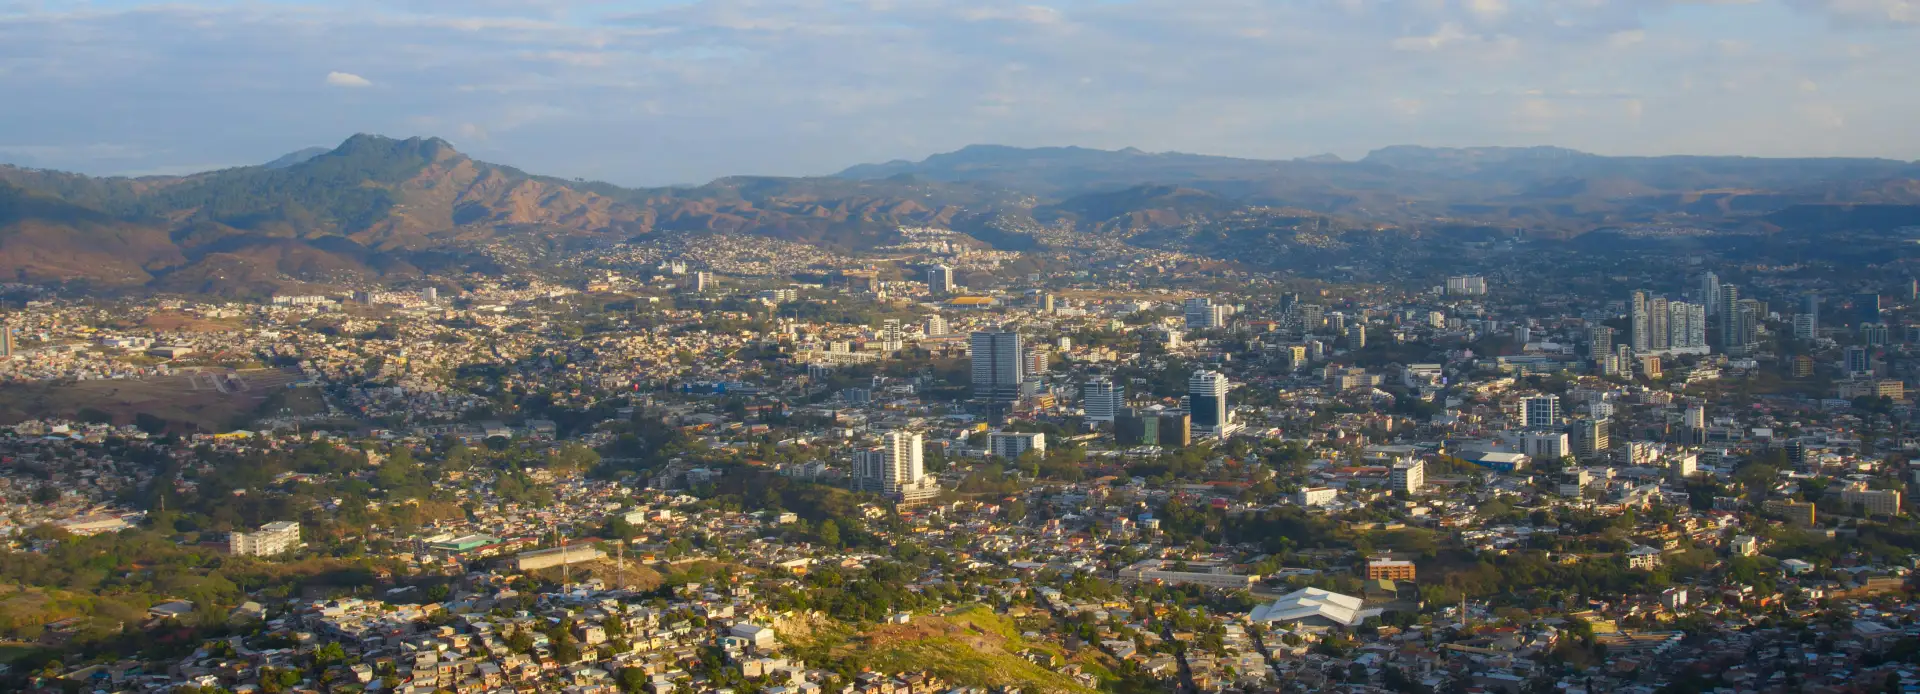
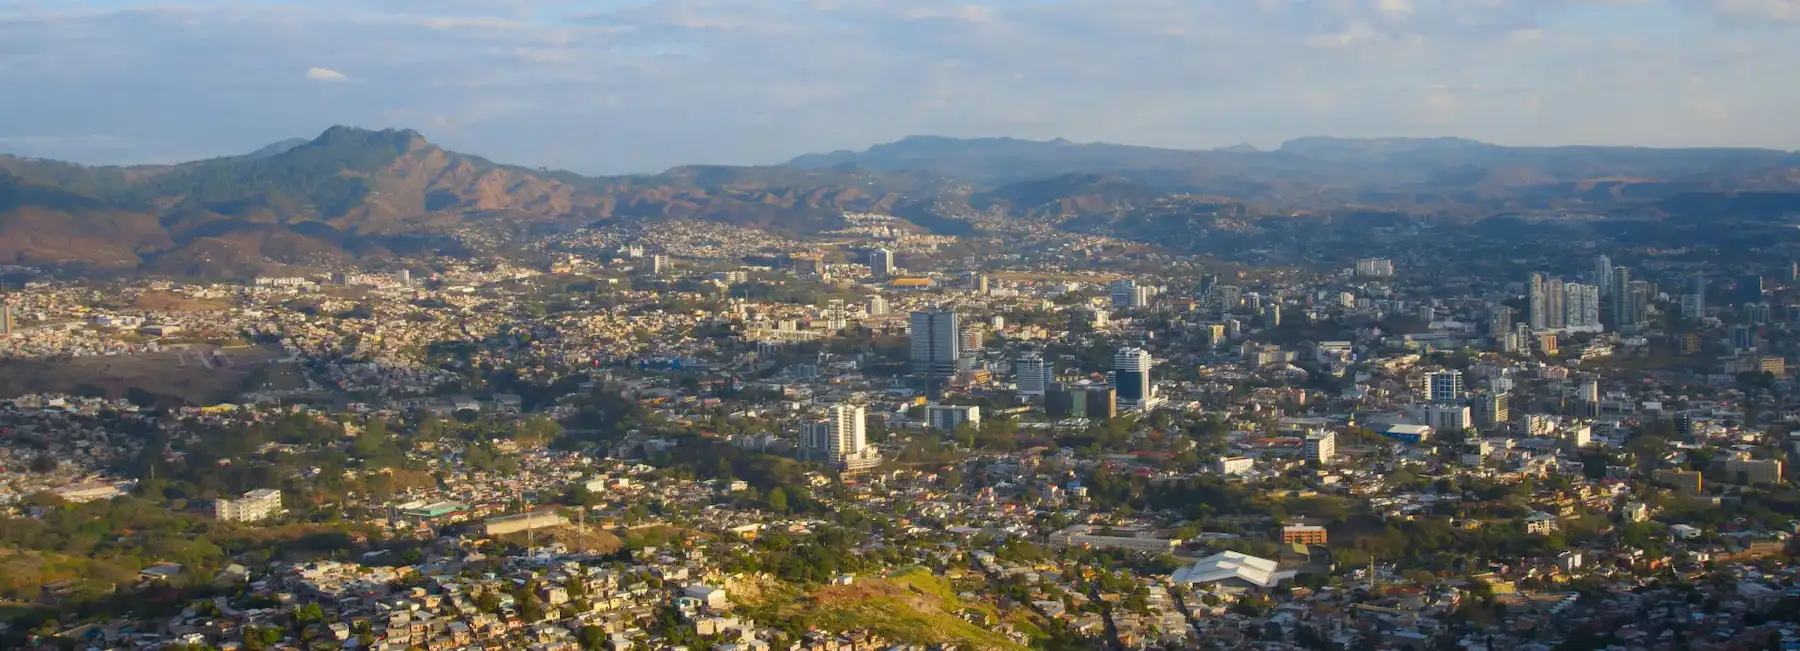
image file size correction

diff --git a/chamber/index.html b/chamber/index.html
@@ -49,7 +49,7 @@
         <h1>Home</h1>
         <div class="hero-container">
             <picture>
-            <source srcset="images/hero-large.webp" media="(min-width: 1000px)">
+            <source srcset="images/hero-large" media="(min-width: 1000px)">
             <source srcset="images/hero-medium.webp" media="(min-width: 550px)">
             <img src="images/hero-small.webp" alt="Tegucigalpa city business center landscape" width="513" height="353">
         </picture>